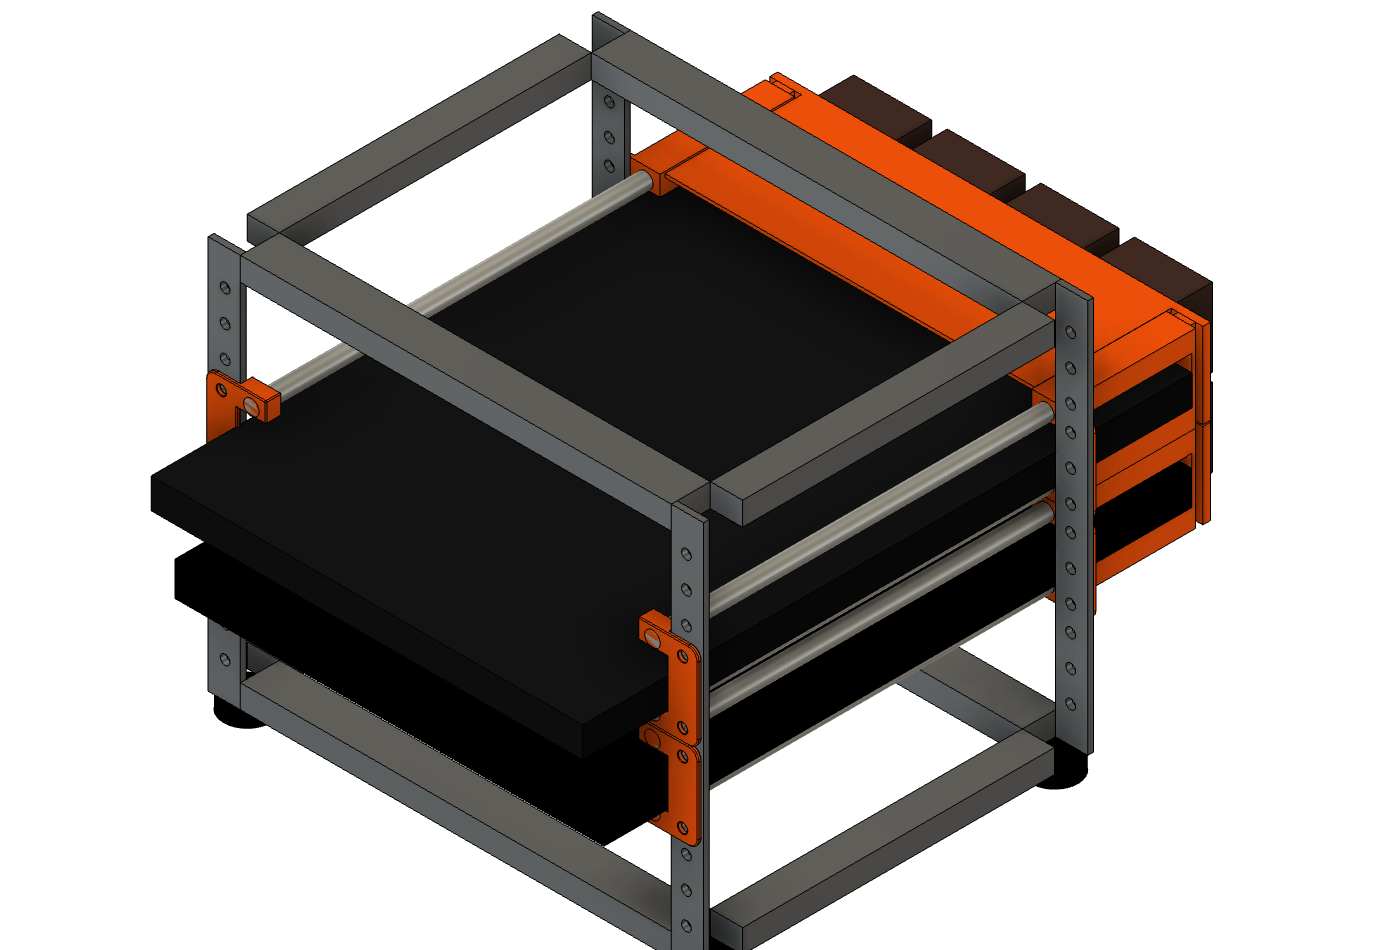
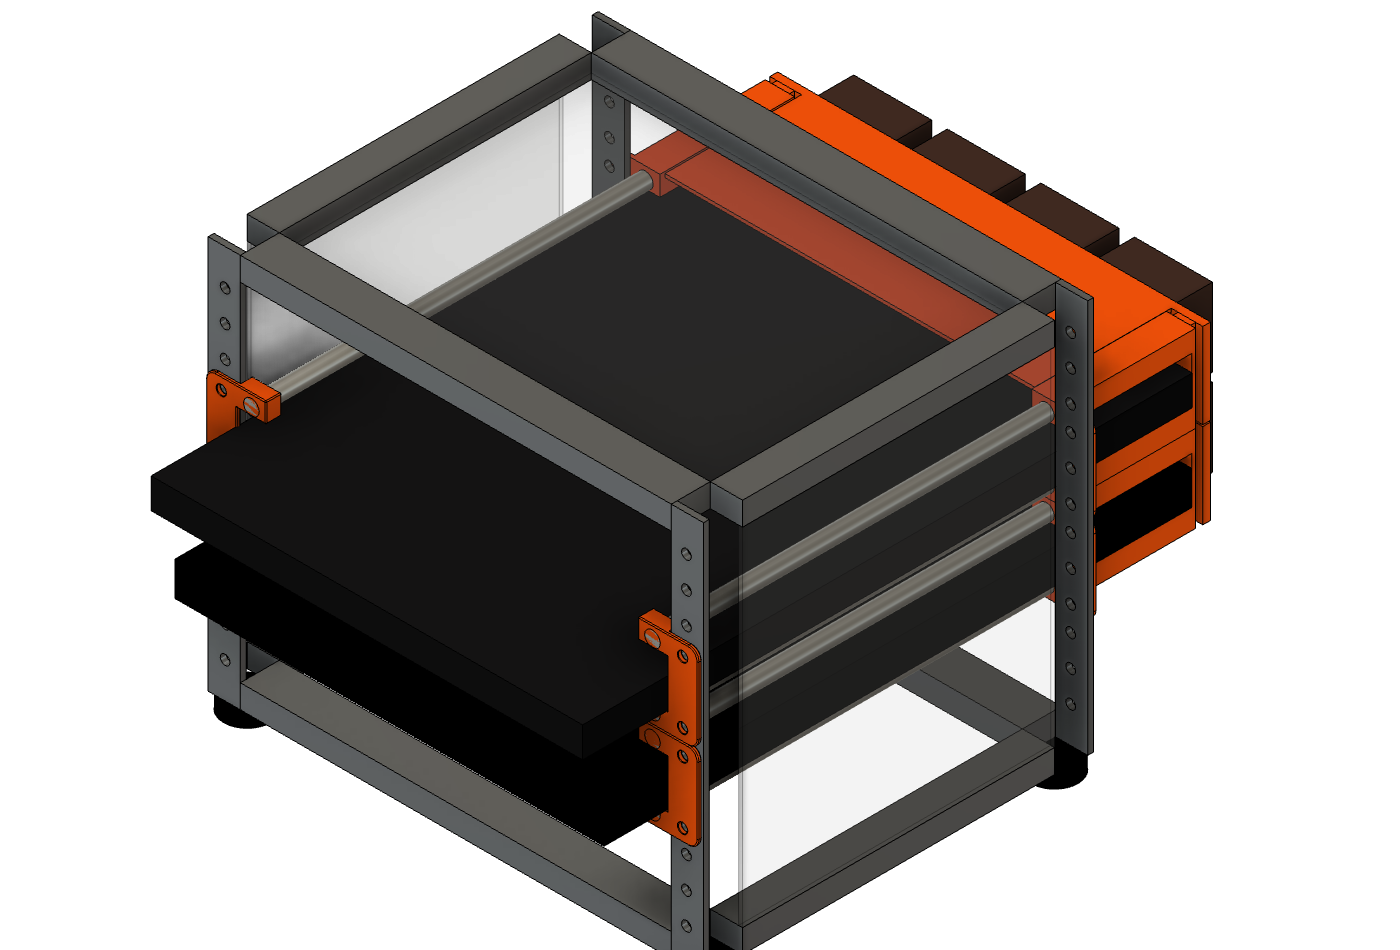
Model the rack's closed acrylic sides and top; note airflow implication
The RackMate T0 has smoked acrylic side panels and a top cover, making
the front opening the sole intake — the duct drives true front-to-back
flow with no side baffles needed. Panels render translucent (viewport
opacity in Fusion, alpha-blended PBR in the GLB) and are excluded from
the monochrome GitHub STL so its viewer still shows the interior.

Claude-Session: https://claude.ai/code/session_01FucNznPGZfhzUNsFimLYsu

Changed region(s): [[0.4914, 0.3358, 0.7986, 0.9768], [0.215, 0.0611, 0.7064, 0.3663], [0.1536, 0.3053, 0.2457, 0.3968]]

diff --git a/scripts/build_rack_mockup.py b/scripts/build_rack_mockup.py
@@ -147,6 +147,14 @@ def run(_context: str):
                            box(side * POST_X_INNER, side * 127, y_range[0], y_range[1],
                                20, 180)))
 
+    # Side panels + top cover (the RackMate T0's sides and top are closed
+    # with smoked acrylic)
+    for side in (-1, 1):
+        bodies.append(("Side panel %+d" % side,
+                       box(side * 125, side * 127, 0, 4 * RU, 20, 180)))
+    bodies.append(("Top panel",
+                   box(-POST_X_INNER, POST_X_INNER, 4 * RU, 4 * RU + 3, 20, 180)))
+
     for side_x in (-1, 1):
         for foot_z in (10.0, 190.0):
             foot = temp_mgr.createCylinderOrCone(
@@ -286,8 +294,12 @@ def run(_context: str):
                             rgb=(94, 61, 48))
     rubber = get_appearance("Plastic - Matte (Black)", "Rubber Foot",
                             rgb=(20, 20, 20))
+    acrylic = get_appearance("Plastic - Translucent Matte (Gray)",
+                             "Smoked Acrylic", rgb=(40, 40, 46))
 
     def pick_appearance(name):
+        if "panel" in name:
+            return acrylic
         if "foot" in name:
             return rubber
         if name.startswith("Frame"):
@@ -307,6 +319,8 @@ def run(_context: str):
         added = root.bRepBodies.add(body)
         added.name = name
         added.appearance = pick_appearance(name)
+        if "panel" in name.lower():
+            added.opacity = 0.3  # smoked acrylic reads see-through in renders
 
     app.activeViewport.fit()
     print("Mockup created: %d bodies in document '%s'" % (

diff --git a/scripts/build_web_assets.py b/scripts/build_web_assets.py
@@ -35,6 +35,7 @@ PALETTE = {
     "surface": (28, 28, 30, 255),
     "fan": (94, 61, 48, 255),
     "print": (247, 84, 3, 255),  # Prusament Prusa Orange
+    "panel": (40, 40, 46, 90),   # smoked acrylic, alpha-blended
 }
 
 METALLIC = {"frame": 0.6, "rod": 0.6}
@@ -44,6 +45,8 @@ ROUGHNESS = {"rod": 0.35}
 def classify(stem: str) -> str:
     """Map an exported body filename to a palette group."""
     lower = stem.lower()
+    if "panel" in lower:
+        return "panel"
     if "foot" in lower:
         return "foot"
     if lower.split("_", 1)[-1].startswith("frame"):
@@ -101,6 +104,7 @@ def build_glb(parts_dir: Path) -> None:
                 baseColorFactor=srgb_to_linear(PALETTE[group]),
                 metallicFactor=METALLIC.get(group, 0.1),
                 roughnessFactor=ROUGHNESS.get(group, 0.6),
+                alphaMode="BLEND" if group == "panel" else "OPAQUE",
             ))
         scene.add_geometry(mesh, node_name=stl_path.stem)
     if not counts:

diff --git a/README.md b/README.md
@@ -20,6 +20,7 @@ Want to spin it yourself? **[Open the interactive 3D viewer](https://mhuot.githu
 - **The rear ears extend 67 mm out the back of the rack**, so the laptop's rear edge sits behind the rear rail and stops against the ears' back plates. A MacBook Pro 14 noses ~45 mm out the front; the Surface Laptop 13.8 ~33 mm.
 - **The fan bar** screws into heat-set inserts in the rear ears' back plates. Four Noctua NF-A4x20 5V fans (40 mm fits upright inside the 44.45 mm rack unit) exhaust rearward. Integrated 1.8 mm duct panels close the top and bottom of the rear overhang, so the fans can only draw air from inside the rack — sweeping the lid and the underside of the chassis on the way through. The ear frames themselves seal the sides.
 - Laptops run clamshell; all cables exit at the front (orient the Surface with its USB-C edge forward).
+- The RackMate-style cabinet has closed acrylic sides and top, so the front opening is the only intake: the fans drive true front-to-back flow through the slot, and the hinge-side exhaust is entrained in the same rearward stream. No side baffles needed.
 
 ## Compatibility
 
